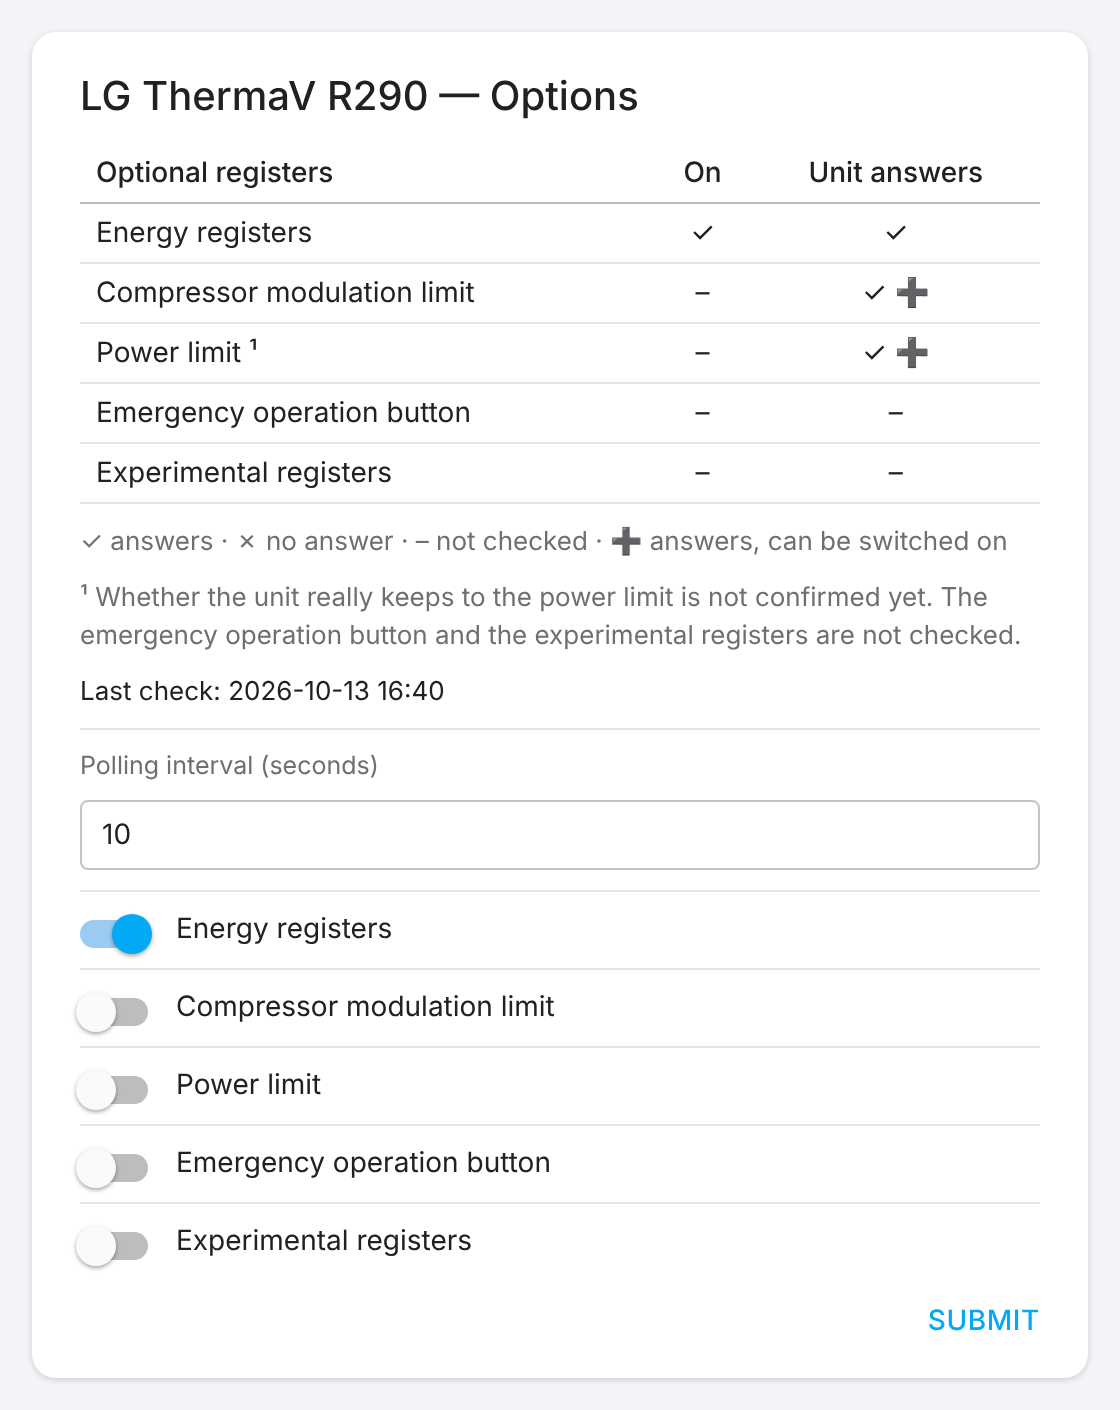
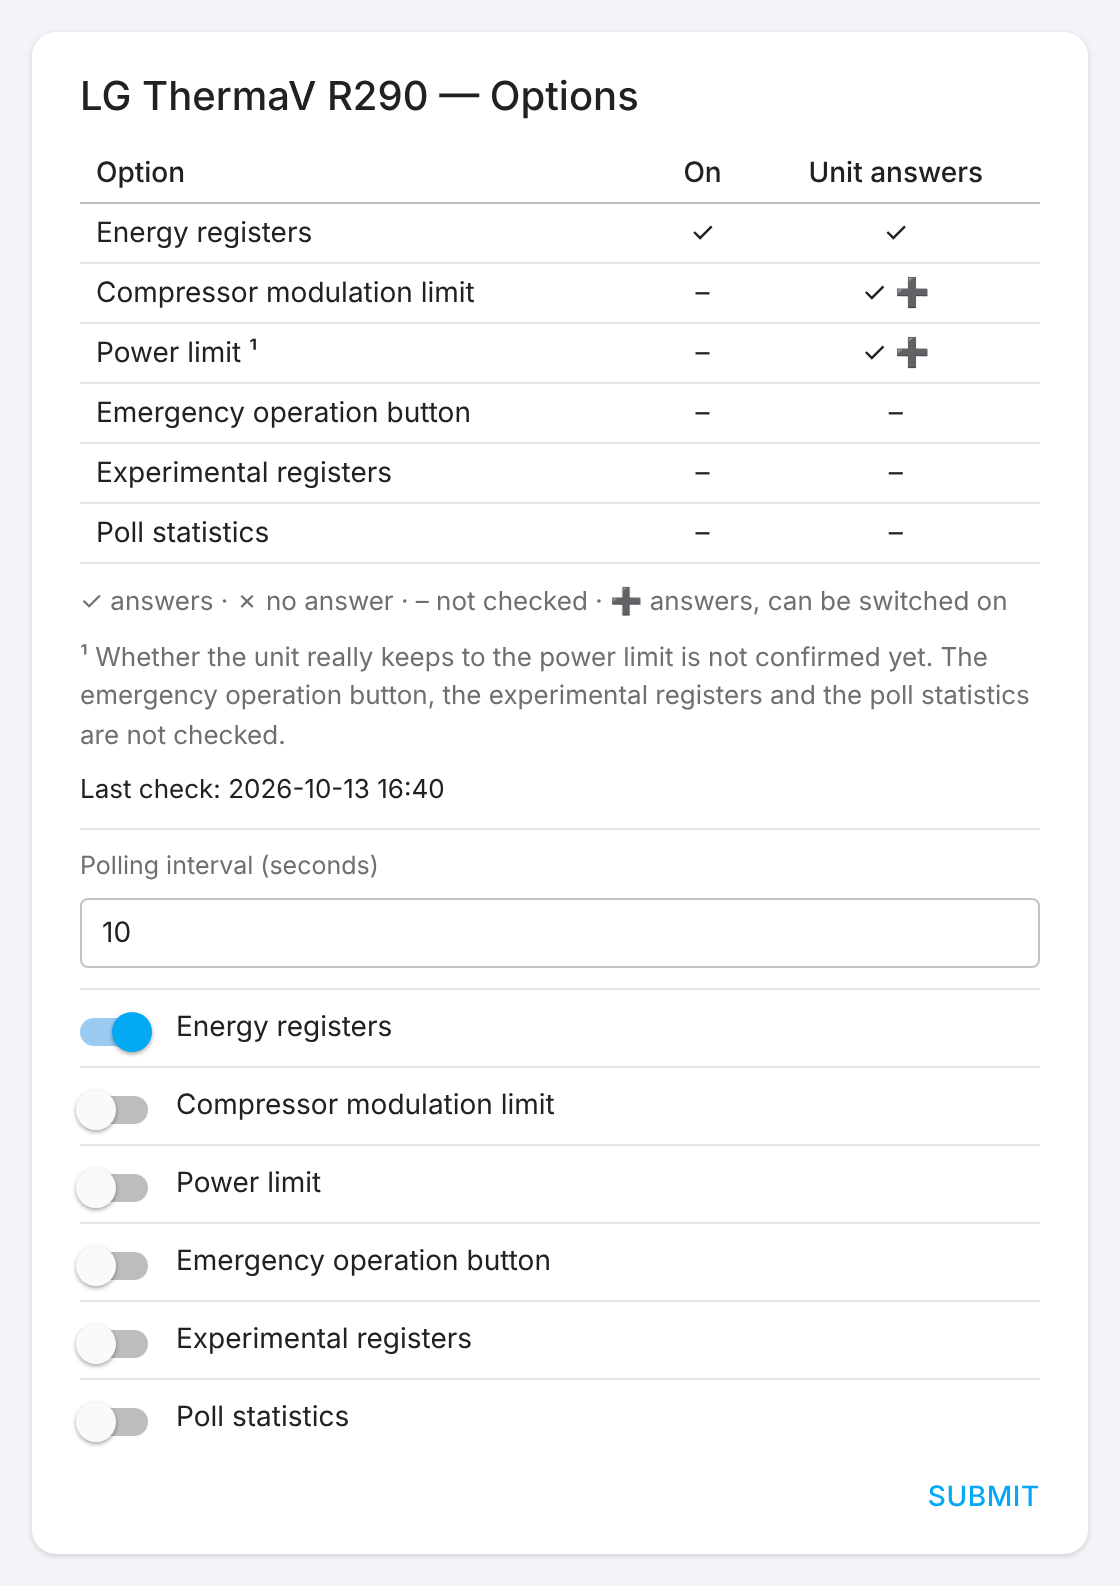
Poll statistics as an option, like the other optional groups
Poll Duration and Bus Load were entities disabled by default, enabled in
Settings -> Entities. They are now switched on with a "Poll statistics"
option in Configure (and on the setup's last step), off by default: on,
both sensors are created enabled; off, they are removed. The status table
lists the option too (nothing to check on the unit, so "Unit answers"
stays "-"), and its first column is now headed "Option". Pictures redrawn.

Not released yet, so nothing to migrate.

Claude-Session: https://claude.ai/code/session_01818XvRdtC3m2KqpGijvKHP

diff --git a/tests_ha/test_poll_stats.py b/tests_ha/test_poll_stats.py
@@ -1,4 +1,4 @@
-"""Poll Duration and Bus Load: diagnostic, disabled by default, filled per poll."""
+"""Poll Duration and Bus Load: created, enabled, by the poll statistics option."""
 
 from __future__ import annotations
 
@@ -11,10 +11,11 @@ DURATION = "sensor.lg_thermav_r290_poll_duration"
 LOAD = "sensor.lg_thermav_r290_bus_load"
 
 
-async def test_poll_sensors(hass, unit) -> None:
+async def test_poll_sensors_with_the_option(hass, unit) -> None:
     entry = MockConfigEntry(
         domain=DOMAIN,
         data={"connection_type": "rtu", **RTU},
+        options={"poll_statistics": True},
         version=1,
         minor_version=4,
     )
@@ -26,13 +27,8 @@ async def test_poll_sensors(hass, unit) -> None:
     for entity_id in (DURATION, LOAD):
         entity = registry.async_get(entity_id)
         assert entity is not None
-        assert entity.disabled_by is er.RegistryEntryDisabler.INTEGRATION
+        assert entity.disabled_by is None  # enabled, as the option asked
         assert entity.entity_category == "diagnostic"
-        assert hass.states.get(entity_id) is None
-        registry.async_update_entity(entity_id, disabled_by=None)
-
-    await hass.config_entries.async_reload(entry.entry_id)
-    await hass.async_block_till_done()
 
     duration = hass.states.get(DURATION)
     assert duration.attributes["unit_of_measurement"] == "ms"
@@ -48,3 +44,24 @@ async def test_poll_sensors(hass, unit) -> None:
     await hass.async_block_till_done()
     # The identity is read once per start, not per poll.
     assert hass.states.get(DURATION).attributes["requests"] == 5
+
+    # Switching the option off removes both.
+    hass.config_entries.async_update_entry(entry, options={"poll_statistics": False})
+    await hass.async_block_till_done()
+    assert registry.async_get(DURATION) is None
+    assert registry.async_get(LOAD) is None
+
+
+async def test_status_table_shows_the_option(hass, unit) -> None:
+    entry = MockConfigEntry(
+        domain=DOMAIN,
+        data={"connection_type": "rtu", **RTU},
+        options={"poll_statistics": True},
+        version=1,
+        minor_version=4,
+    )
+    entry.add_to_hass(hass)
+    result = await hass.config_entries.options.async_init(entry.entry_id)
+    status = result["description_placeholders"]
+    assert status["poll_statistics_on"] == "✓"
+    assert status["poll_statistics"] == "–"  # nothing to check on the unit

diff --git a/custom_components/lg_thermav_r290/sensor.py b/custom_components/lg_thermav_r290/sensor.py
@@ -42,6 +42,7 @@ from . import cop, pollstats
 from .const import (
     CONF_ENERGY_REGISTERS,
     CONF_EXPERIMENTAL,
+    CONF_POLL_STATISTICS,
     CONTROL_METHOD_FROM_VALUE,
     DOMAIN,
     ENERGY_STATE_DISPLAY,
@@ -420,7 +421,8 @@ _COP_SENSORS: tuple[LGCalculatedSensorDescription, ...] = (
 
 
 # How long a poll takes and how much of the poll interval that is (see
-# pollstats.py). Diagnostic, disabled by default: they change on every poll.
+# pollstats.py). Diagnostic, created only with the poll statistics option:
+# they change on every poll, so they are not there unless asked for.
 _POLL_SENSORS: tuple[LGSensorDescription, ...] = (
     LGSensorDescription(
         key=pollstats.KEY_POLL_DURATION,
@@ -432,7 +434,6 @@ _POLL_SENSORS: tuple[LGSensorDescription, ...] = (
         suggested_unit_of_measurement=UnitOfTime.MILLISECONDS,
         state_class=SensorStateClass.MEASUREMENT,
         entity_category=EntityCategory.DIAGNOSTIC,
-        entity_registry_enabled_default=False,
     ),
     LGSensorDescription(
         key=pollstats.KEY_BUS_LOAD,
@@ -443,7 +444,6 @@ _POLL_SENSORS: tuple[LGSensorDescription, ...] = (
         suggested_display_precision=1,
         state_class=SensorStateClass.MEASUREMENT,
         entity_category=EntityCategory.DIAGNOSTIC,
-        entity_registry_enabled_default=False,
     ),
 )
 
@@ -458,7 +458,6 @@ async def async_setup_entry(
         *(LGSensor(coordinator, entry, d) for d in _SENSORS),
         *(LGLabelSensor(coordinator, entry, d) for d in _LABEL_SENSORS),
         *(LGCalculatedSensor(coordinator, entry, d) for d in _THERMAL_POWER_SENSORS),
-        *(LGPollSensor(coordinator, entry, d) for d in _POLL_SENSORS),
     ]
     if entry.options.get(CONF_ENERGY_REGISTERS, False):
         entities.extend(LGEnergySensor(coordinator, entry, r) for r in ENERGY_REGISTERS)
@@ -471,6 +470,10 @@ async def async_setup_entry(
         )
     else:
         remove_entities(hass, entry, "sensor", EXPERIMENTAL_OPTION_KEYS)
+    if entry.options.get(CONF_POLL_STATISTICS, False):
+        entities.extend(LGPollSensor(coordinator, entry, d) for d in _POLL_SENSORS)
+    else:
+        remove_entities(hass, entry, "sensor", tuple(d.key for d in _POLL_SENSORS))
     async_add_entities(entities)
 
 

diff --git a/tests_ha/test_setup.py b/tests_ha/test_setup.py
@@ -44,6 +44,8 @@ async def test_entities_without_options(hass, unit) -> None:
         "switch.lg_thermav_r290_power_limit",
         "button.lg_thermav_r290_start_emergency_operation",
         "sensor.lg_thermav_r290_experimental_input_30015",
+        "sensor.lg_thermav_r290_poll_duration",
+        "sensor.lg_thermav_r290_bus_load",
     ):
         assert entity_id not in entities, entity_id
     # Every unique id is <entry id>_<key>.
@@ -60,6 +62,7 @@ async def test_all_options_create_their_entities(hass, unit) -> None:
         "power_limit": True,
         "emergency_operation_button": True,
         "experimental_registers": True,
+        "poll_statistics": True,
     }
     entry = await _set_up(hass, options)
     entities = _entities(hass, entry)
@@ -71,9 +74,11 @@ async def test_all_options_create_their_entities(hass, unit) -> None:
         "switch.lg_thermav_r290_power_limit",
         "button.lg_thermav_r290_start_emergency_operation",
         "sensor.lg_thermav_r290_experimental_input_30015",
+        "sensor.lg_thermav_r290_poll_duration",
+        "sensor.lg_thermav_r290_bus_load",
     ):
         assert entity_id in entities, entity_id
-    assert len(entities) == 109  # incl. the two disabled poll sensors
+    assert len(entities) == 109
 
 
 async def test_writes_reach_the_unit(hass, unit) -> None:

diff --git a/custom_components/lg_thermav_r290/detect.py b/custom_components/lg_thermav_r290/detect.py
@@ -29,6 +29,7 @@ from .const import (
     CONF_ENERGY_REGISTERS,
     CONF_EXPERIMENTAL,
     CONF_MODULATION_LIMIT,
+    CONF_POLL_STATISTICS,
     CONF_POWER_LIMIT,
 )
 from .energy import ENERGY_BLOCK_COUNT, ENERGY_BLOCK_START
@@ -40,13 +41,14 @@ from .power_limit import POWER_LIMIT_COIL, POWER_LIMIT_REGISTER
 CONF_DETECTED = "detected"
 CONF_DETECTED_AT = "detected_at"
 
-# All optional register groups, in the order the forms show them.
+# All options that switch entities on, in the order the forms show them.
 GROUPS = (
     CONF_ENERGY_REGISTERS,
     CONF_MODULATION_LIMIT,
     CONF_POWER_LIMIT,
     CONF_EMERGENCY_OPERATION,
     CONF_EXPERIMENTAL,
+    CONF_POLL_STATISTICS,
 )
 
 # The groups that are checked, in the order they are asked.

diff --git a/custom_components/lg_thermav_r290/const.py b/custom_components/lg_thermav_r290/const.py
@@ -13,6 +13,7 @@ CONF_EXPERIMENTAL = "experimental_registers"
 CONF_ENERGY_REGISTERS = "energy_registers"
 CONF_MODULATION_LIMIT = "compressor_modulation_limit"
 CONF_EMERGENCY_OPERATION = "emergency_operation_button"
+CONF_POLL_STATISTICS = "poll_statistics"
 CONF_POWER_LIMIT = "power_limit"
 
 CONNECTION_TCP = "tcp"

diff --git a/tests_ha/test_config_flow.py b/tests_ha/test_config_flow.py
@@ -52,6 +52,7 @@ async def test_a_unit_that_answers_everywhere(hass, unit) -> None:
         "power_limit": False,
         "emergency_operation_button": False,
         "experimental_registers": False,
+        "poll_statistics": False,
     }
 
     result = await hass.config_entries.flow.async_configure(

diff --git a/README.md b/README.md
@@ -108,6 +108,7 @@ The config flow asks for connection type first, then connection-specific paramet
 | Power limit | off | Options; coil 6 + holding 24, not served by every unit; effect not confirmed yet |
 | Emergency operation button | off | Options; coil 5 |
 | Experimental registers | off | Options; 18 undocumented registers, read only |
+| Poll statistics | off | Options; *Poll Duration* and *Bus Load* diagnostic sensors |
 
 #### Which options the unit supports
 
@@ -120,6 +121,7 @@ After the connection test, the setup asks the unit once which optional register 
 | Power limit | coil 6, then holding 24 | no: whether the unit keeps to the limit is not confirmed yet |
 | Emergency operation button | — | never: coil 5 answers on every unit; the option is off because of what it does |
 | Experimental registers | — | never |
+| Poll statistics | — | never: nothing to check on the unit |
 
 Answering only proves the register exists, not that writing it has an effect. A unit that does not serve a group stays silent, so each missing group waits for a request timeout: on a unit that has none of them, the check takes up to about 30 seconds, shown as progress. It runs only then, never while polling.
 
@@ -169,14 +171,14 @@ Answering only proves the register exists, not that writing it has an effect. A 
 | `sensor.lg_thermav_r290_energy_state` | Energy state (label), holding 9: the command register | — |
 | `sensor.lg_thermav_r290_energy_state_reported` | Energy state (label), input 11: the state the unit reports as active | — |
 
-#### Poll statistics (diagnostic, disabled by default)
+#### Poll statistics (option)
 
 | Entity | Description | Unit |
 |---|---|---|
 | `sensor.lg_thermav_r290_poll_duration` | How long the last poll took, from its first request to its last, including any wait for the bus; attribute `requests`: the reads in that poll | ms |
 | `sensor.lg_thermav_r290_bus_load` | Poll duration ÷ poll interval: how much of the time this integration keeps the bus busy | % |
 
-Both are under *Diagnostic* on the device page, with long-term statistics. Enable them in *Settings → Entities* to see how much your bus carries, e.g. before shortening the poll interval or switching on more options. On a bus of its own (a USB adapter) *Bus Load* is the whole bus; on a gateway shared with other devices, it is this integration's share plus its waiting.
+Switch on **Poll statistics** in *Configure → Options* to get both; switched off, they are removed again. They are under *Diagnostic* on the device page, with long-term statistics, to see how much your bus carries, e.g. before shortening the poll interval or switching on more options. Nothing extra is read from the unit: the integration times the poll it makes anyway. On a bus of its own (a USB adapter) *Bus Load* is the whole bus; on a gateway shared with other devices, it is this integration's share plus its waiting.
 
 Both energy state sensors show the value in front of its name, `0 – Not Used` … `8 – Super Energy Saving Mode`; a value outside 0–8 shows as the bare number. (Up to 1.2.0, *Energy State* showed the name alone, e.g. `Normal Operation`; automations comparing its state need the new text.)
 
